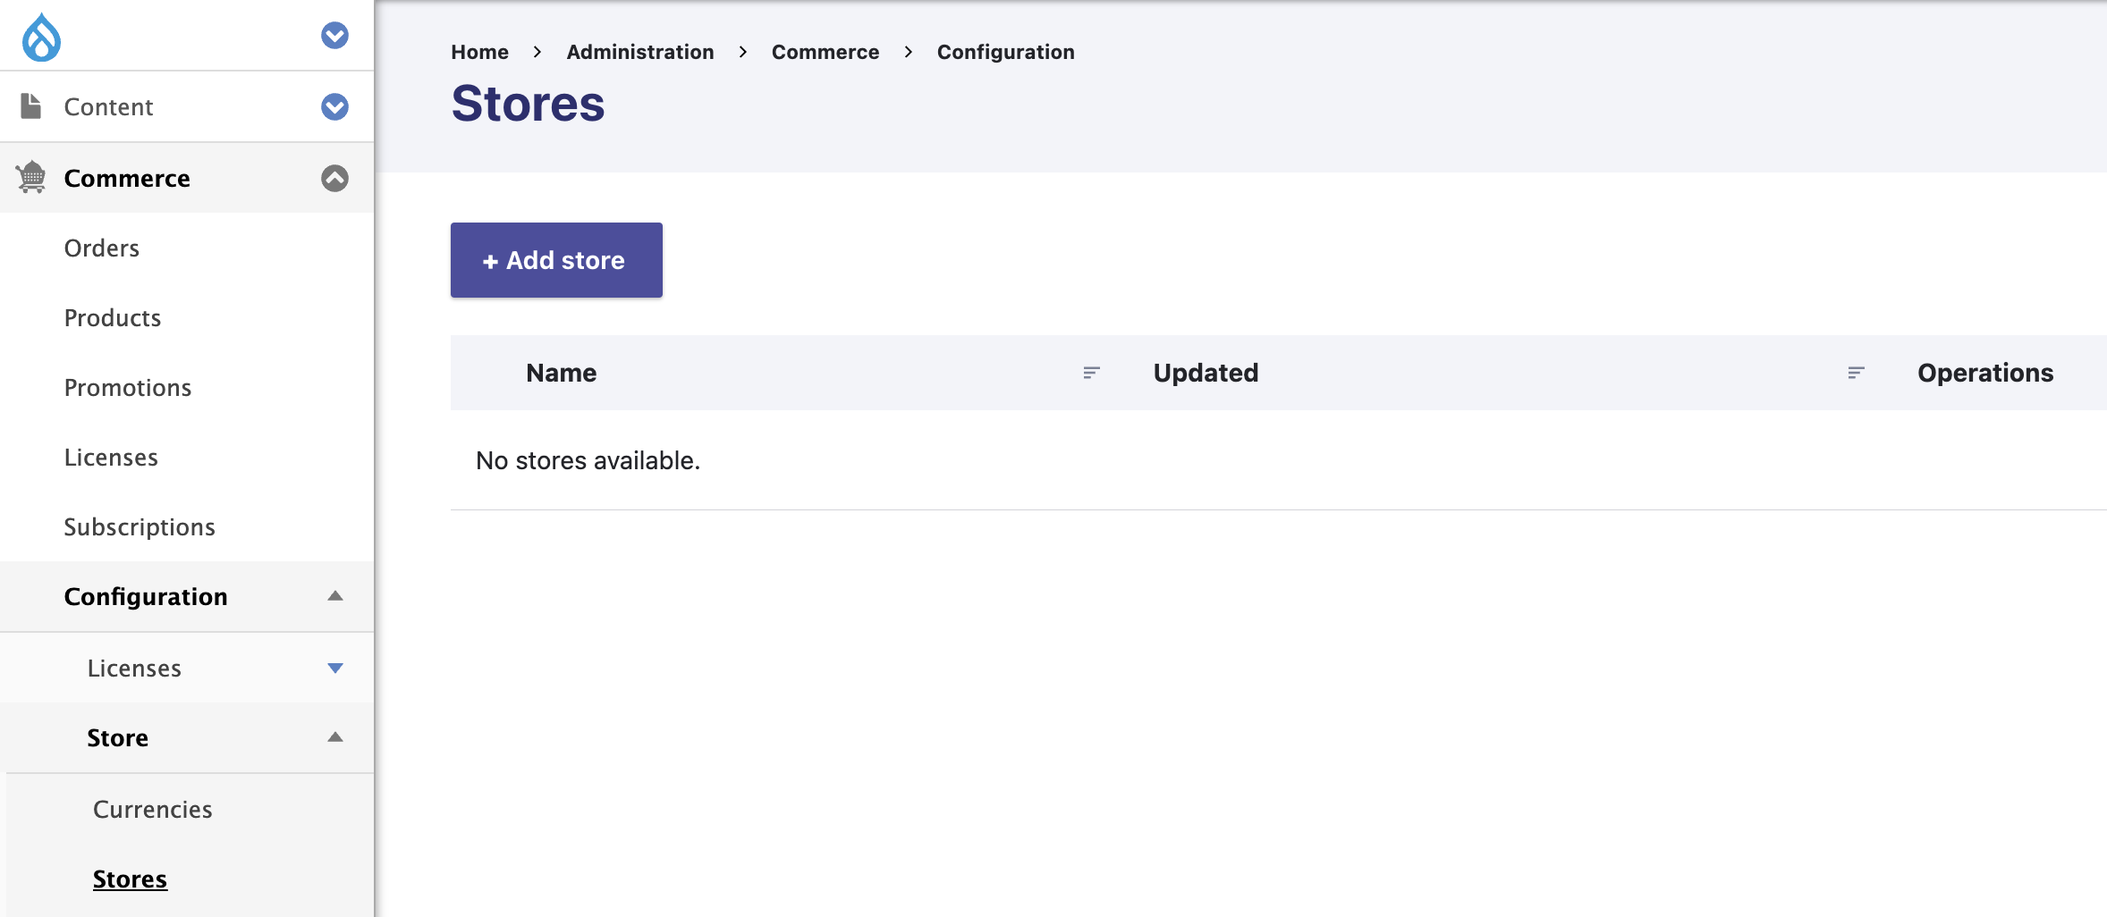
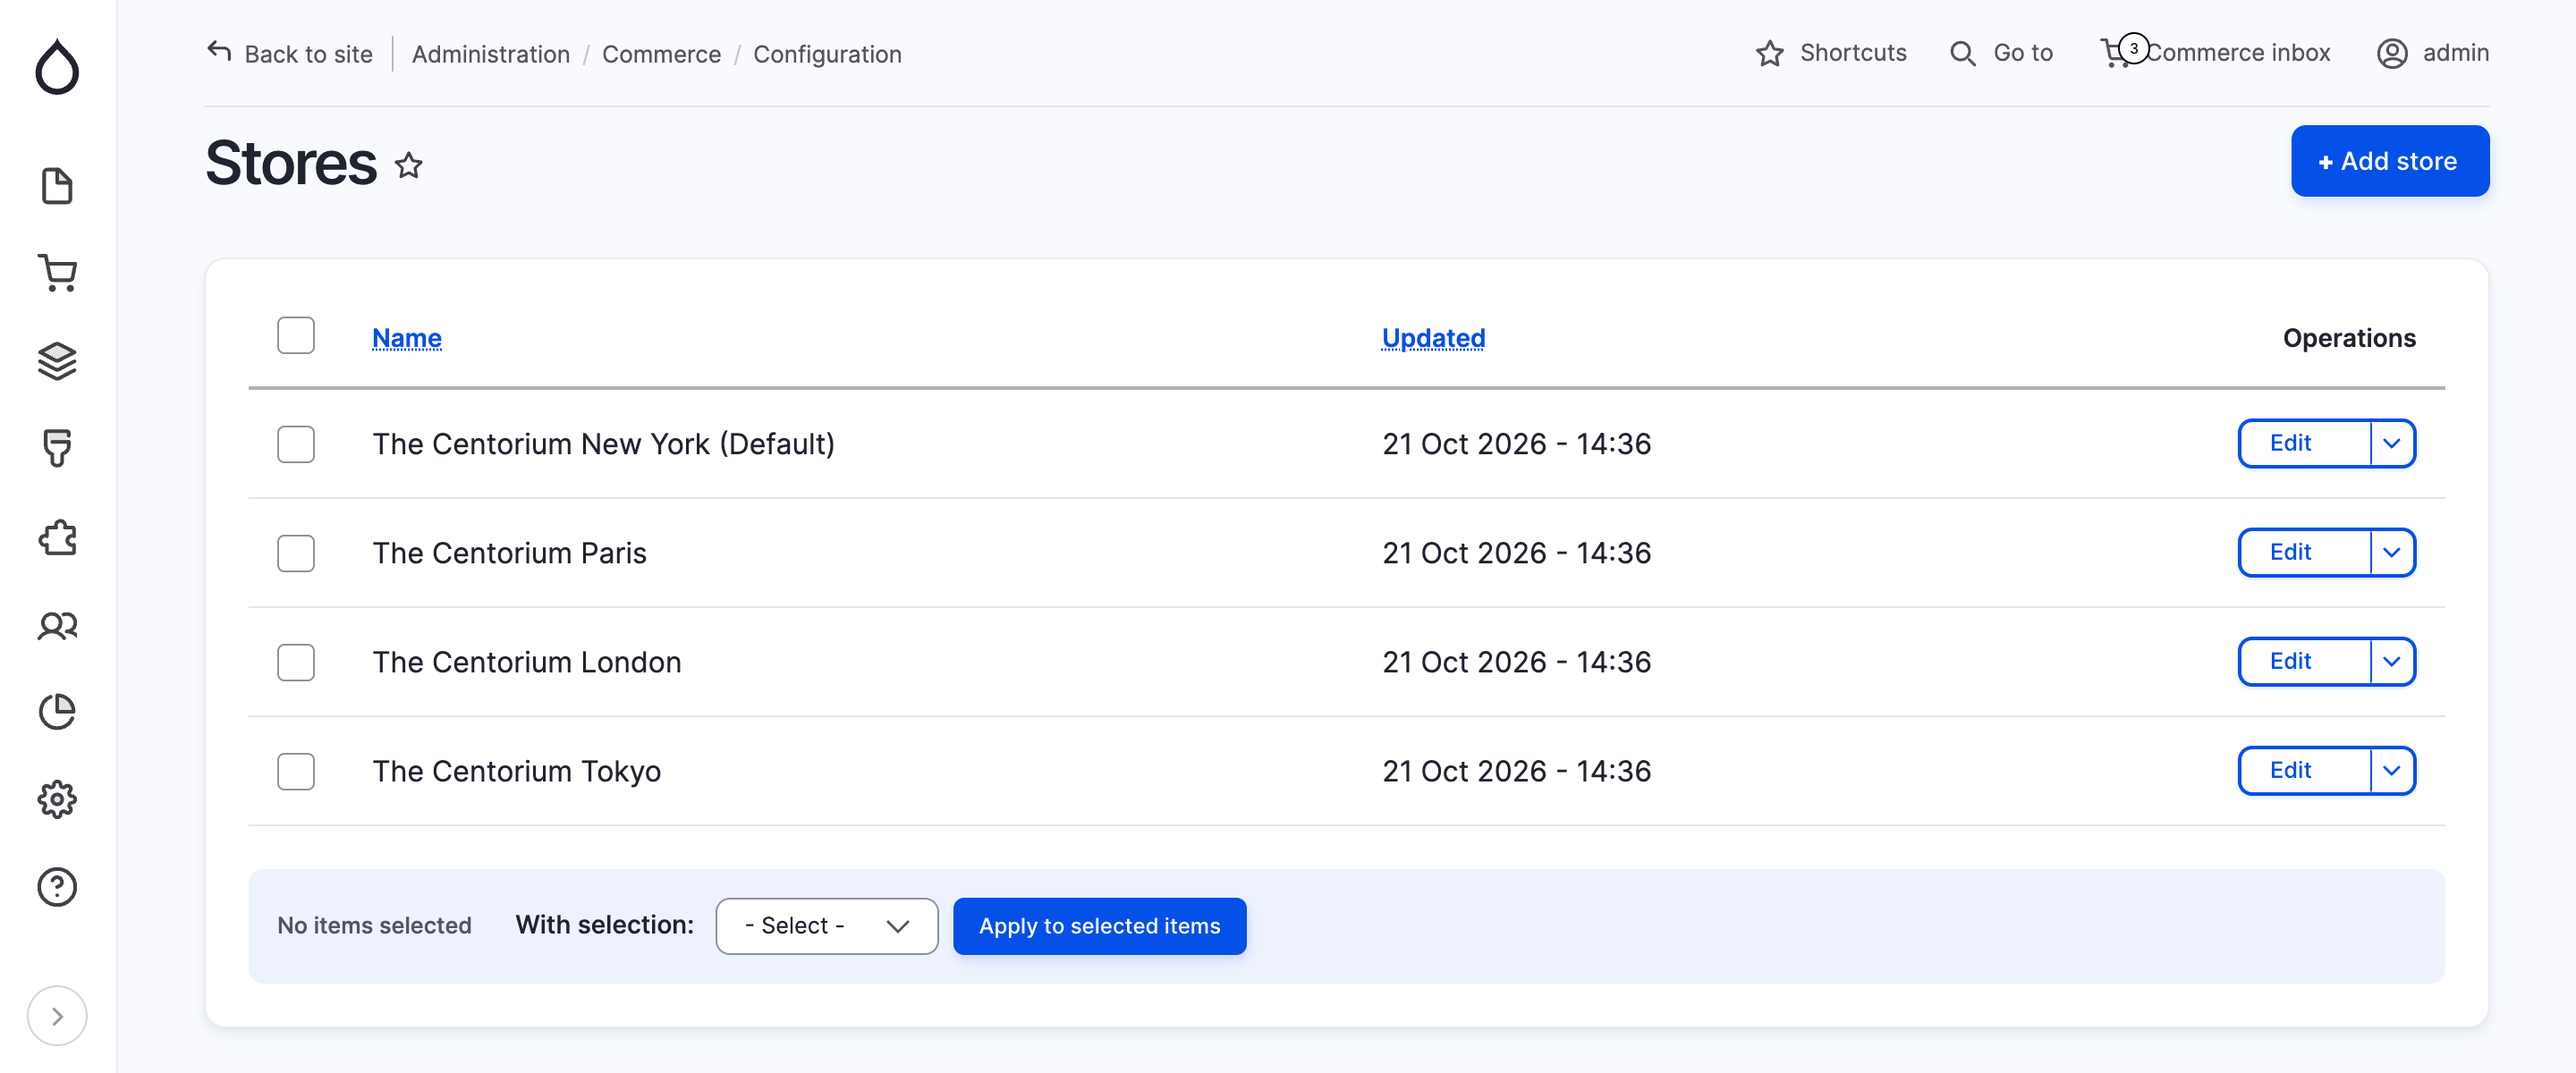
Retake the store setup screenshots with Gin, and add a screenshots skill

diff --git a/.claude/skills/screenshots/seed.php b/.claude/skills/screenshots/seed.php
@@ -1,0 +1,42 @@
+<?php
+
+/**
+ * @file
+ * Demo data on top of the Kickstart demo, so screenshots match the docs.
+ *
+ * Usage: ddev drush php:script <path>/seed.php
+ */
+
+use Drupal\commerce_store\Entity\Store;
+
+// Neutral defaults instead of the machine's timezone and no default country.
+\Drupal::configFactory()->getEditable('system.date')
+  ->set('timezone.default', 'America/New_York')
+  ->set('country.default', 'US')
+  ->save();
+
+// The docs show four "Centorium" stores, New York being the default.
+$default = Store::load(1);
+$default->setName('The Centorium New York')->save();
+$importer = \Drupal::service('commerce_price.currency_importer');
+$stores = [
+  ['Paris', 'FR', 'EUR', ['postal_code' => '75001', 'locality' => 'Paris', 'address_line1' => '1 Rue de Rivoli']],
+  ['London', 'GB', 'GBP', ['postal_code' => 'SW1A 1AA', 'locality' => 'London', 'address_line1' => '10 Downing Street']],
+  ['Tokyo', 'JP', 'JPY', ['postal_code' => '100-0001', 'locality' => 'Chiyoda-ku', 'administrative_area' => 'Tokyo', 'address_line1' => '1-1 Chiyoda']],
+];
+foreach ($stores as [$city, $country, $currency, $address]) {
+  $name = "The Centorium $city";
+  if (\Drupal::entityQuery('commerce_store')->accessCheck(FALSE)->condition('name', $name)->count()->execute()) {
+    continue;
+  }
+  $importer->import($currency);
+  Store::create([
+    'type' => $default->bundle(),
+    'uid' => 1,
+    'name' => $name,
+    'mail' => $default->getEmail(),
+    'default_currency' => $currency,
+    'address' => ['country_code' => $country] + $address,
+    'billing_countries' => [$country],
+  ])->save();
+}

diff --git a/.claude/skills/screenshots/SKILL.md b/.claude/skills/screenshots/SKILL.md
@@ -1,0 +1,87 @@
+---
+name: screenshots
+description: Retake the screenshots of a docs page from a fresh Commerce Kickstart site with the Gin admin theme. Use when asked to update, refresh or retake screenshots, e.g. "/screenshots docs/v2/user-guide/store-setup.md".
+argument-hint: <page under docs/v2/>
+---
+
+# Retake a page's screenshots with Gin
+
+Target: $ARGUMENTS. One page per run and per PR.
+
+Files next to this skill:
+- `capture.cjs`: logs in and captures a list of shots (format at the top of the file).
+- `selectors.cjs`: lists the forms, fieldsets, panels and field wrappers of admin pages.
+- `seed.php`: extra demo data the docs rely on (four "Centorium" stores, US/New York defaults).
+- `shots/<section>--<page>.json`: the shot list of each page already done. If the target has
+  one, start from it: rerunning it is usually all a refresh needs.
+
+## 1. The site
+
+A throwaway DDEV site with Commerce Kickstart and its demo content, outside this repo.
+Reuse it if it exists (`ddev describe -j` in its folder); otherwise:
+
+```bash
+SITE=~/projects/commerce-screenshots
+mkdir -p $SITE && cd $SITE
+ddev config --project-type=drupal11 --docroot=web --php-version=8.3 --project-name=commerce-screenshots
+ddev start -y
+ddev composer create-project -n centarro/commerce-kickstart-project
+# Install from the demo recipe directly. The installer applies only this recipe when
+# "demo" is chosen; applying it on top of an existing install fails on config conflicts.
+ddev drush si ../recipes/commerce_kickstart_demo -y --account-name=admin --account-pass=admin --site-name="Commerce Kickstart"
+```
+
+Then, every time (it's safe to rerun), copy `seed.php` into `$SITE` (the container can't
+see this repo) and run `ddev drush php:script seed.php`. If the page needs more data
+(orders, promotions, ...), add it to `seed.php` rather than clicking it together.
+
+Check `ddev drush cget system.theme admin` says `gin`, and note the Commerce version
+(`ddev composer show drupal/commerce`): it goes in the PR.
+
+## 2. Playwright
+
+```bash
+SCRATCH=$(mktemp -d)   # or the session scratchpad
+npm i --prefix "$SCRATCH/pw" playwright@1.48.2 && (cd "$SCRATCH/pw" && npx playwright install chromium)
+export NODE_PATH="$SCRATCH/pw/node_modules"
+LOGIN=$(cd $SITE && ddev drush uli --uri=https://commerce-screenshots.ddev.site)
+```
+
+The login link is single-use: get a fresh one for each run.
+
+## 3. The shot list
+
+For each image on the page:
+1. Look at the old image (Read it) and the text around it: which screen, what framing
+   (one panel or field, a whole form, the page), what state (a hovered button, a selected radio).
+2. Find the admin URL (`*.routing.yml`, `*.links.*.yml`, or browse) and run `selectors.cjs`
+   on it to pick a selector.
+3. Write the shot to `shots/<section>--<page>.json`, keeping the old file name.
+
+Lessons from the pages already done:
+- Gin's toolbar and sidebar are sticky: a `fullPage` capture cuts them at the viewport.
+  Use a taller `viewport` instead.
+- Gin's forms are full width: capture form-only shots at a narrower `viewport` width (900),
+  or the image is mostly empty space.
+- Crop to what the text talks about (`selector` + `padding`, `maxHeight` to stop early).
+- Gin turns boolean checkboxes into toggles, and moves some fields to the sidebar
+  (e.g. "Make this the default store."). Fix the text when it says "check the box" or
+  "at the bottom of the form".
+
+## 4. Capture and review
+
+```bash
+node .claude/skills/screenshots/capture.cjs "$LOGIN" .claude/skills/screenshots/shots/<file>.json "$SCRATCH/out"
+```
+
+Read every new image and compare it with the old one before using it. Fix the shot list
+and recapture until each one shows what the text describes. Then copy them over the old
+files in the page's `images/` directory (same names, so the page needs no edit).
+
+If a screen no longer exists or works differently, don't force a matching screenshot:
+the text is outdated too. Say so, and suggest `/doc-check` for the page.
+
+## 5. Pull request
+
+One branch and PR per page, with the shot list. The description says the Commerce and
+Kickstart versions, which images changed, and any text fixed for Gin.

diff --git a/docs/v2/user-guide/store-setup.md b/docs/v2/user-guide/store-setup.md
@@ -48,7 +48,7 @@ To change the default store, from the *Stores* list click the *Edit* operation b
 
 ![Edit store](./images/stores-edit-a-store.png)
 
-At the bottom of the form, check the box labeled *Make this the default store.* Submit the form, and the default store will be updated:
+In the sidebar, turn on *Make this the default store.* and save the form. The default store will be updated:
 
 ![Make default](./images/edit-store-check-default.png)
 
